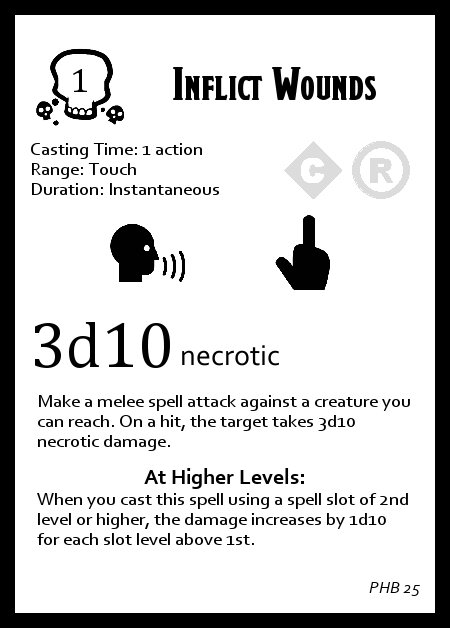
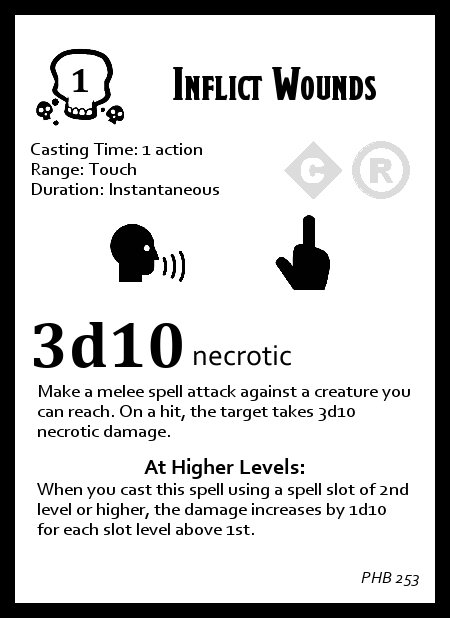
O_O we done boys
its finished, I could clean up the getText() function, but apart from that its done.
Last step is to make the main loop through a folder, the possibly turn it into a .exe

diff --git a/SpellCardStuff.py b/SpellCardStuff.py
@@ -2,6 +2,13 @@ import pygame
 from pygame import gfxdraw
 pygame.init()
 
+def hasKey(d,*args):
+    for key in args:
+        if d.setdefault(key) != None:
+            return True
+    return False
+    
+
 class CardInfo:
     def __init__(self,file):
         self.info = {}
@@ -17,10 +24,11 @@ class CardInfo:
 
 class CardLayout:
     def __init__(self):
-        self.elements = [[]]
+        self.blank = pygame.Surface((0,0))
+        self.elements = [[(self.blank,'LEFT','TOP')]]*11
     def add(self,level,thing,x='LEFT',y='TOP'):
-        if level >= len(self.elements):
-            self.elements.append([(thing,x,y)])
+        if self.elements[level][0][0] == self.blank:
+            self.elements[level] = [(thing,x,y)]
         else:
             self.elements[level].append((thing,x,y))
 
@@ -29,8 +37,8 @@ class CardLayout:
         height[0] += 10 #margin under spell level 
         height[4] += 15 #margin above components
         height[5] = 15 #remove height of materials
-        height[7] += 10 #margin above description
-        height[8] += 15 #margin above HL header
+        if self.elements[8][0][0] != self.blank:
+            height[8] += 15 #margin above HL header
         height[10] += 30 #margin above PHB page
         
         a = pygame.Surface((width,sum(height)))
@@ -138,7 +146,6 @@ class CardDraw:
         for i in range(0,len(com)):
             a = pygame.transform.scale(cls.components[com[i]],(d,d))
             b.blit(a,(x+i*(x+d),0))
-        
         return b
     
     @classmethod
@@ -148,15 +155,19 @@ class CardDraw:
         l.add(1,cls.getText('Casting Time: '+info['casting-time'],cls.fonts[2]))
         l.add(2,cls.getText('Range: '+info['range'],cls.fonts[2]))
         l.add(3,cls.getText('Duration: '+info['duration'],cls.fonts[2]))
-        l.add(2,cls.getCR(info['ritual'],info['concentration']),'RIGHT','CENTER')
+        if hasKey(info,'ritual','concentration'):
+            l.add(2,cls.getCR(info['ritual'],info['concentration']),'RIGHT','CENTER')
         l.add(4,cls.getComponents(info['components']),'CENTER','BOTTOM')
-        l.add(5,cls.getText(info['materials'],cls.fonts[7],0,(180,)*3),'RIGHT','TOP')
-        l.add(6,cls.getText(info['damage'],cls.fonts[4]))
-        l.add(6,cls.getText(' '+info['type'],cls.fonts[5]),'FLUSH','OFFSET')
+        if hasKey(info,'materials'):
+            l.add(5,cls.getText(info['materials'],cls.fonts[7],0,(180,)*3),'RIGHT','TOP')
+        if hasKey(info,'damage'):
+            l.add(6,cls.getText(info['damage'],cls.fonts[4]))
+            l.add(6,cls.getText(' '+info['type'],cls.fonts[5]),'FLUSH','OFFSET')
         l.add(7,cls.getText(info['description'],cls.fonts[2],15),'CENTER','BOTTOM')
-        l.add(8,cls.getText('At Higher Levels:',cls.fonts[6]),'CENTER','BOTTOM')
-        l.add(9,cls.getText(info['higher'],cls.fonts[2],15),'CENTER')
-        l.add(10,cls.getText('PHB '+info['page'],cls.fonts[7]),'RIGHT','BOTTOM')
+        if hasKey(info,'higher'):
+            l.add(8,cls.getText('At Higher Levels:',cls.fonts[6]),'CENTER','BOTTOM')
+            l.add(9,cls.getText(info['higher'],cls.fonts[2],15),'CENTER')
+        l.add(10,cls.getText(info['page'],cls.fonts[7]),'RIGHT','BOTTOM')
 
     @classmethod
     def getText(cls,text,font,d=0,color=(0,0,0)):

diff --git a/test.py b/test.py
@@ -1,52 +1,7 @@
 import pygame
 pygame.init()
 
-def getText(text,font,width=350,color=(0,0,0)):
-    lines = []
-    i = 0
-    while text[i:]:
-        if text[i] == '\n':
-            lines.append(text[:i])
-            text = ' '*5+text[i+1:]
-            i = 0
-        elif font.size(text[:i].strip('*'))[0] > width:
-            x = text[:i].rfind(' ')
-            lines.append(text[:x])
-            text = text[x+1:]
-            i = -1
-        i += 1
-    lines.append(text)
-    #return unwrapped text if below width
-    if len(lines) == 1:
-        return font.render(line,1,color)
-        
-    height = font.size('Tg')[1]
-    text_surface = pygame.Surface((width,len(lines)*height))
-    text_surface.fill((255,)*3)
-    text_surface.set_colorkey((255,)*3)
-
-    for i in range(0,len(lines)):
-        bold = lines[i].split('*')
-        x = 0
-        for j in bold:
-            image = font.render(j,1,color)
-            text_surface.blit(image,(x,i*height))
-            x += font.size(j)[0]
-            font.set_bold(not font.get_bold())
-            font.set_italic(not font.get_italic())
-        font.set_bold(False)
-        font.set_italic(False)
-        
-    return text_surface
-
-f = open('test.txt','r')
-x = f.read()
-f.close()
-image = getText(x,pygame.font.SysFont('corbel',17))
-
-window = pygame.display.set_mode((380,500))
-window.fill((255,)*3)
-window.blit(image,(15,15))
-pygame.display.flip()
-
-pygame.image.save(window,'test.')
+x = [[]]*7
+print(x)
+x[0].append(1)
+print(x)

diff --git a/__main__.py b/__main__.py
@@ -1,7 +1,7 @@
 import pygame
 from SpellCardStuff import *
 from Input import InputManager as im
-#from GUI import *
+
 pygame.init()
 im.__init__()
 
